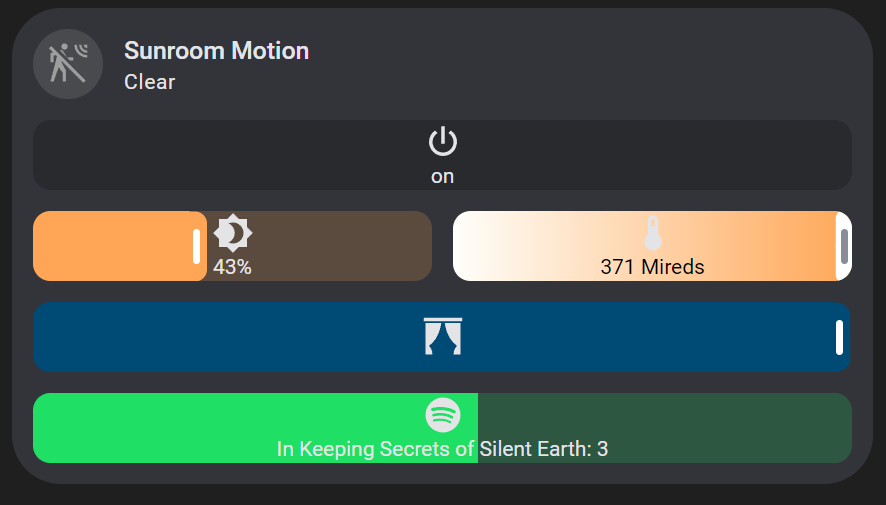
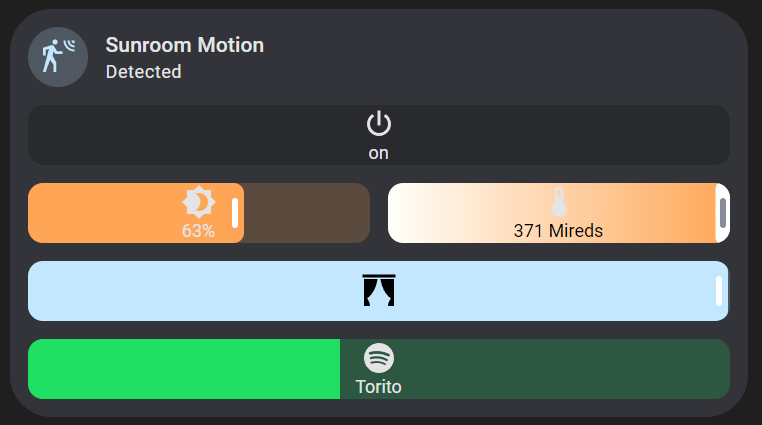
README updates

diff --git a/src/models/interfaces/IConfig.ts b/src/models/interfaces/IConfig.ts
@@ -7,6 +7,7 @@ export interface IEntry extends IServiceCall, IStyle, ISliderOptions {
 	type: TileFeatureType;
 	value_attribute?: string;
 	entity_id?: string;
+	autofill_entity_id?: boolean
 }
 
 export type TileFeatureType = 'button' | 'slider';
@@ -15,7 +16,6 @@ export interface IServiceCall {
 	service: string;
 	data?: IData;
 	target?: ITarget;
-	autofill_entity_id?: boolean
 }
 
 export interface IData {

diff --git a/README.md b/README.md
@@ -43,14 +43,18 @@ The custom service call feature is actually a row of entries, each of which have
 
 ### General Options
 
-| Name            | Type   | Description                                                                      |
-| --------------- | ------ | -------------------------------------------------------------------------------- |
-| type            | string | Type of tile feature. Currently supported options are `button` and `slider`.     |
-| value_attribute | string | The attribute to use to determine the value of the feature. Defaults to `state`. |
+| Name               | Type    | Description                                                                                                                                              |
+| ------------------ | ------- | -------------------------------------------------------------------------------------------------------------------------------------------------------- |
+| type               | string  | Type of tile feature. Currently supported options are `button` and `slider`.                                                                             |
+| value_attribute    | string  | The attribute to use to determine the value of the feature. Defaults to `state`.                                                                         |
+| entity_id          | string  | The entity ID of the tile feature. Defaults to the entity ID provided in the service call data/target or the entity ID of the tile card.                 |
+| autofill_entity_id | boolean | Whether to autofill the `entity_id` of the tile feature and the service call data/target if no entity, device, or area ID is provided. Defaults to true. |
 
 By default type will be `button`. If you're using an older version of this feature it may not be present but will still default to `button`. Currently `slider` is also supported.
 
 As of now `value_attribute` is only important for sliders, as it uses this field to determine the slider's default value on render. It can also be used for `VALUE` string interpolation as described below.
+
+If you find that the autofilling of the entity ID in the service call or tile feature value is causing issues, setting `autofill_entity_id` to `false` may help. Just remember to set the entity ID of the tile feature and the entity, device, or area ID of the service call target.
 
 ### String Interpolation
 
@@ -291,6 +295,8 @@ features:
         service: cover.set_cover_position
         value_attribute: current_position
         icon: mdi:curtains
+        icon_color: var(--disabled-color)
+        color: var(--tile-color)
         data:
           position: VALUE
           entity_id: cover.sunroom_curtains
@@ -311,6 +317,7 @@ features:
           entity_id: media_player.spotify
 type: tile
 entity: binary_sensor.sun_room
+color: accent
 ```
 
 <img src="https://raw.githubusercontent.com/Nerwyn/service-call-tile-feature/dev/assets/slider_tile.png" alt="slider_tile" width="600"/>
